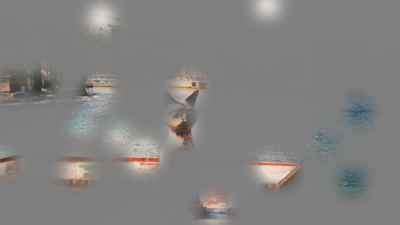
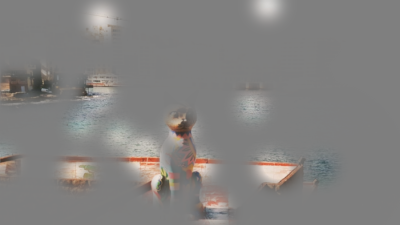
smaller bubbles in sd example

diff --git a/examples.py b/examples.py
@@ -39,7 +39,7 @@ a1, mask, mu_x, mu_y, sigma = bubbles.bubbles_mask_nonzero(im=a, sigma=[10,10,10
 a1.save(op.join('examples', 'a1.png'))
 
 # demonstrate that the space is unused
-a2, mask, mu_x, mu_y, sigma = bubbles.bubbles_mask_nonzero(im=a, sigma=np.repeat(5, repeats=100), bg=127, max_sigma_from_nonzero=0.2)
+a2, mask, mu_x, mu_y, sigma = bubbles.bubbles_mask_nonzero(im=a, sigma=np.repeat(2, repeats=100), bg=127, max_sigma_from_nonzero=0.2)
 
 a2.save(op.join('examples', 'a2.png'))
 
